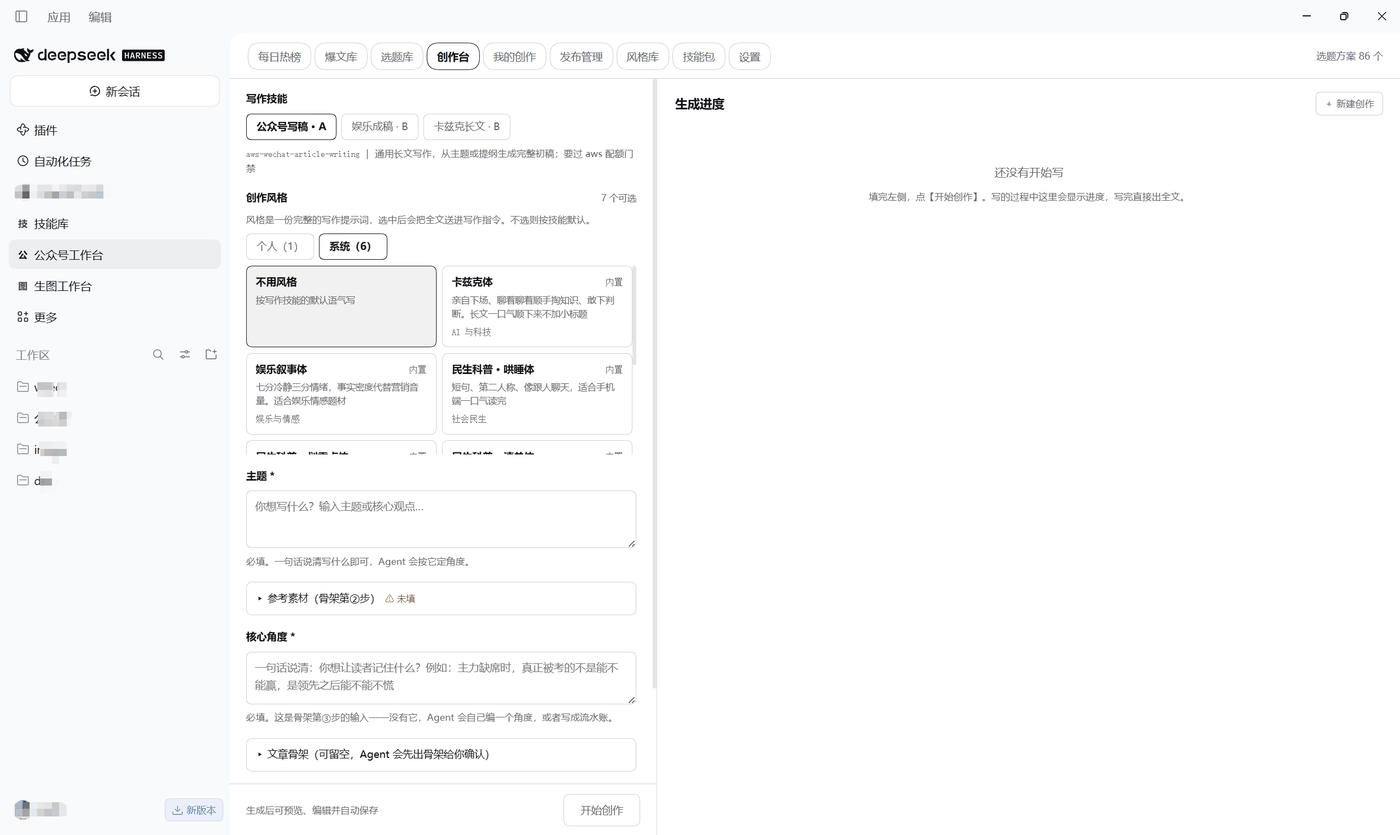
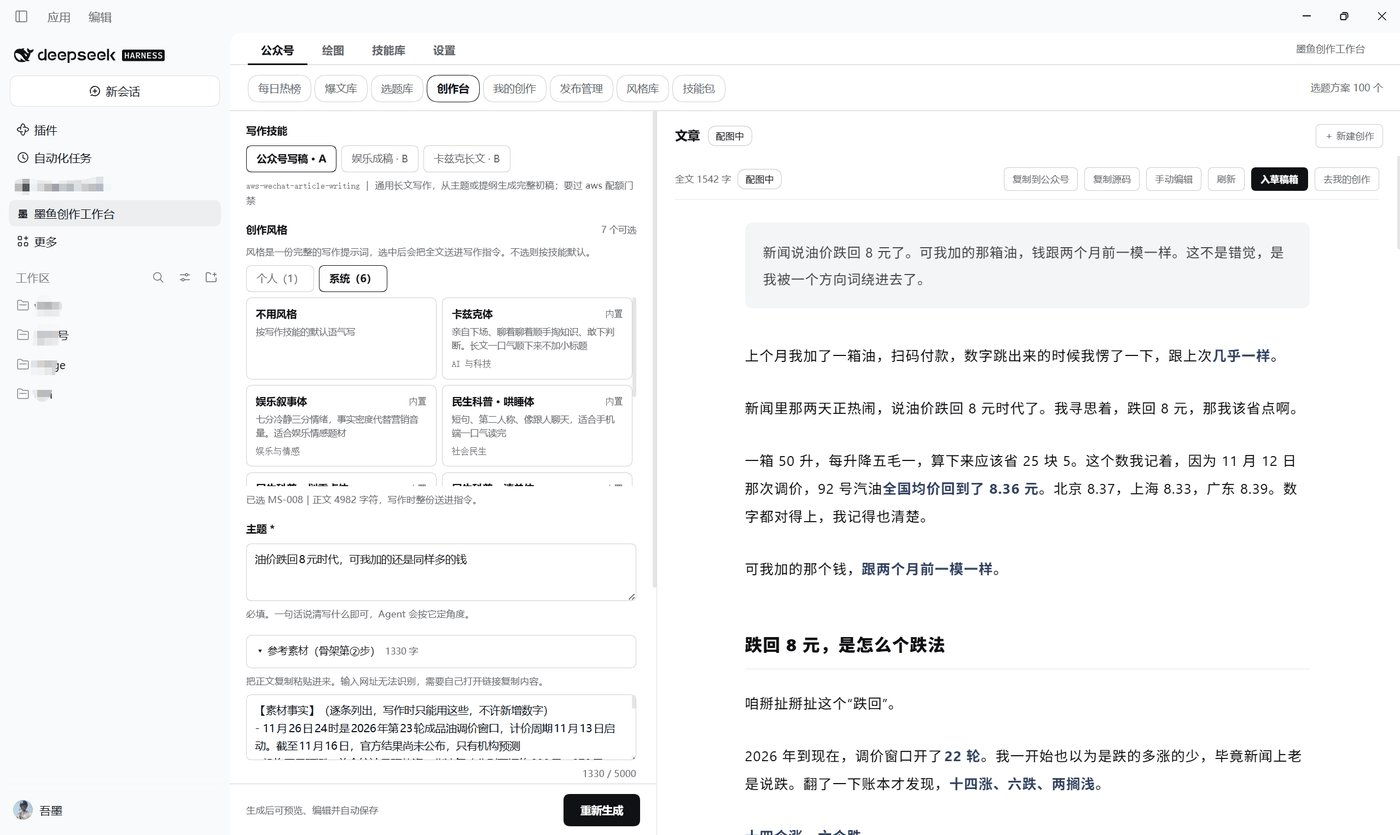
chore: 更新界面截图，风格库补两个新风格（0.2.6）
截图
- 6 张主界面截图全部换成当前版本（每日热榜 / 爆文库 / 选题库 /
  创作台 / 我的创作 / 风格库），均按 1400x835 调色板 PNG 压缩
- 新增 shot-draw.png，README 的「绘图」小节第一次有配图
- 截图里体现新架构：顶部 公众号 / 绘图 / 技能库 / 设置 切换条

风格库
- 补上 FF-018 低多边形艺术、FG-025 拼豆像素画 两个风格，
  随包数据 367 -> 369（含两张参考图 webp）
- 分组数同步：FF 17->18、FG 24->25；README / DEVELOPMENT 里
  的 367 全部改成 369
- 说明：全局序号仍是 001-367（技能契约不动），
  新增两个是组内编号追加，不占全局序号

版本 0.2.5 -> 0.2.6

diff --git a/DEVELOPMENT.md b/DEVELOPMENT.md
@@ -1,6 +1,6 @@
 # dsh-workbench · 开发文档
 
-**当前版本：`0.2.5`**
+**当前版本：`0.2.6`**
 
 本文件面向**开发者与维护者**：表结构、路由、文件结构、命令速查、设计取舍与踩坑记录。
 
@@ -502,7 +502,7 @@ python tools/pack.py                               # 打包 → dist/dsh-workben
 | `/api/workbench/xhs` | GET / POST | **小红书爆文**：GET 读 `xhs-hot.snapshot.json`（同样空骨架兜底）；POST 跑 `collect-xhs.py` 抓 25 个分类的单日爆款（约 60 秒） |
 | `/api/workbench/inbox` | POST | **手动投料**：文字 + 截图落盘到 `materials/inbox/`，返回记录供界面投递分析指令 |
 | `/api/workbench/health` | GET | 数据层自检 |
-| `/api/workbench/image-catalog` | GET | **风格库索引**：367 风格 / 170 图型 / 36 主题色 / 角色，由 `image-gen.py catalog` 归一化，进程内缓存 |
+| `/api/workbench/image-catalog` | GET | **风格库索引**：369 风格 / 170 图型 / 36 主题色 / 角色，由 `image-gen.py catalog` 归一化，进程内缓存 |
 | `/api/workbench/image-asset` | GET | **读图片二进制**：`from=skill` 读技能安装目录，`from=workspace` 读生成物；**两个根都做越界检查** |
 | `/api/workbench/image-jobs` | GET / POST | 生图任务：GET 列表（连资产与用量一起给）/ POST `action:'preview'` 组词、`action:'enqueue'` 入队 |
 | `/api/workbench/image-run` | POST | **起一个后台生成进程**：单张 30–70 秒，不能挂在请求里等；界面轮询任务状态 |
@@ -1247,7 +1247,7 @@ GET  {host}/v1/api/result?id=<task_id>    → running/… → succeeded → resu
 | 模块 | 是什么 |
 |---|---|
 | **漫图创作** | **左表单 + 右渲染预览的工作室**（见第十五节）：创作模式 / 出图模式与留白 / 主题 / 画幅与情绪 / 视觉资产与风格搭配。**默认展示页** |
-| 风格库 | 367 种手绘风格（FA–FI 九组）。CS 组是用户自建，不随包分发。分类筛选 + 搜索（**纯数字按编号精确搜**）；点卡片开抽屉看大图、复制提示词、选为生成 |
+| 风格库 | 369 种手绘风格（FA–FI 九组）。CS 组是用户自建，不随包分发。分类筛选 + 搜索（**纯数字按编号精确搜**）；点卡片开抽屉看大图、复制提示词、选为生成 |
 | 图型库 | 170 种**排版图型模板**。每种给一套构图与版式；选中的原文会逐字拼进提示词，出图就按这个排版来 |
 | 主色调 | 36 种经典单色。选中后写进提示词的「主题色」段 |
 | 角色资产库 | **角色 / 道具 / 场景三个子库**。可从生成物一键归档、可作垫图引用。图库目录的**挂载入口不在这里**（在漫图创作分组④，见第十四节） |
@@ -1286,7 +1286,7 @@ GET  {host}/v1/api/result?id=<task_id>    → running/… → succeeded → resu
 
 ## 十四、角色资产库（角色 / 道具 / 场景）
 
-**它不是画廊，是资产库。** 区别在于：图型/风格/色卡是只读的预置库（367 风格/170 图型/36 色卡），
+**它不是画廊，是资产库。** 区别在于：图型/风格/色卡是只读的预置库（369 风格/170 图型/36 色卡），
 而资产库要能往里加东西、并且这些基准图要在**出图时当垫图**用 —— 保持主体形象一致、跨媒介不漂移。
 
 ### 数据层：复用技能自带的，不另造

diff --git a/PLUGIN.md b/PLUGIN.md
@@ -2,7 +2,7 @@
 
 > 一个跑在 [DSH](https://github.com/deepseek-ai) 里的墨鱼创作工作台。从选题、写稿、审稿、排版到配图，把一条完整的创作流水线装进一个界面。
 
-[![版本](https://img.shields.io/badge/version-0.2.5-blue)]()
+[![版本](https://img.shields.io/badge/version-0.2.6-blue)]()
 [![Python](https://img.shields.io/badge/python-3.9%2B-brightgreen)]()
 [![平台](https://img.shields.io/badge/platform-Windows%20%7C%20macOS%20%7C%20Linux-lightgrey)]()
 
@@ -67,8 +67,8 @@
 
 ```bash
 # 1. 解压
-unzip dsh-workbench-0.2.5.zip
-cd dsh-workbench-0.2.5
+unzip dsh-workbench-0.2.6.zip
+cd dsh-workbench-0.2.6
 
 # 2. 一键安装（会自动装插件依赖的技能）
 python install.py
@@ -112,7 +112,7 @@ python install.py --check
 ## 目录结构
 
 ```
-dsh-workbench-0.2.5/
+dsh-workbench-0.2.6/
 ├── install.py                一键安装器
 ├── package.json              DSH 插件声明
 ├── cordis.patch.yml          插件注册补丁
